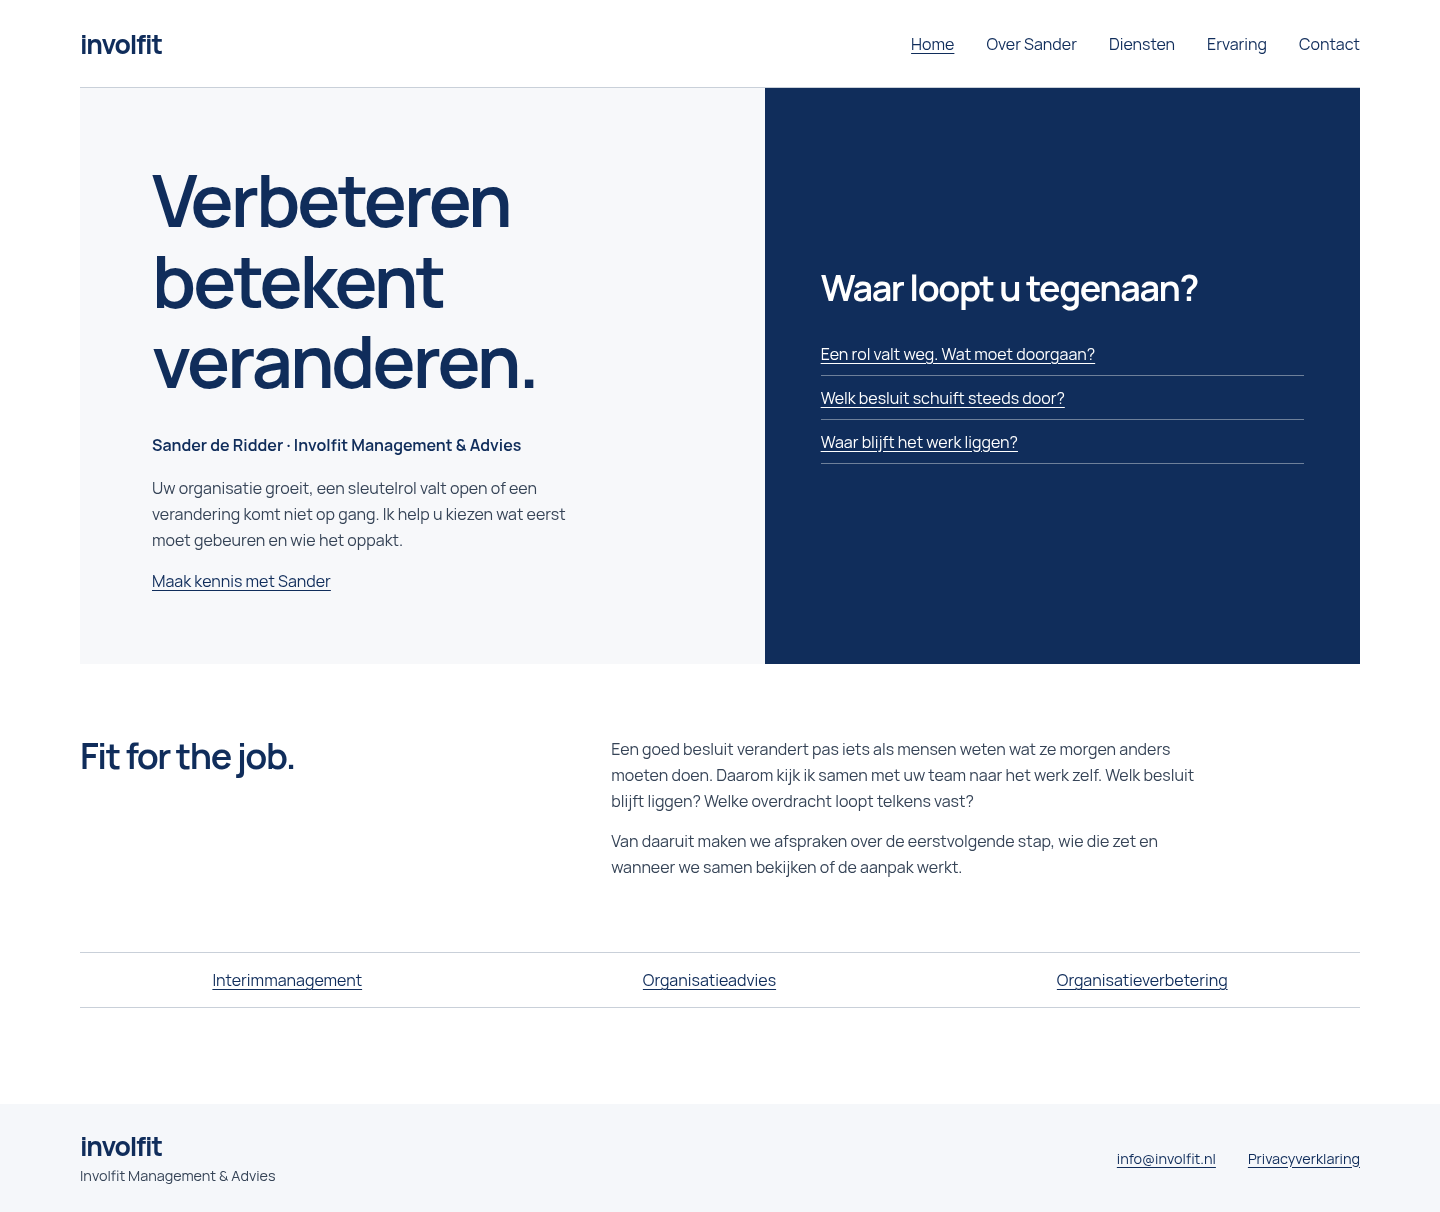
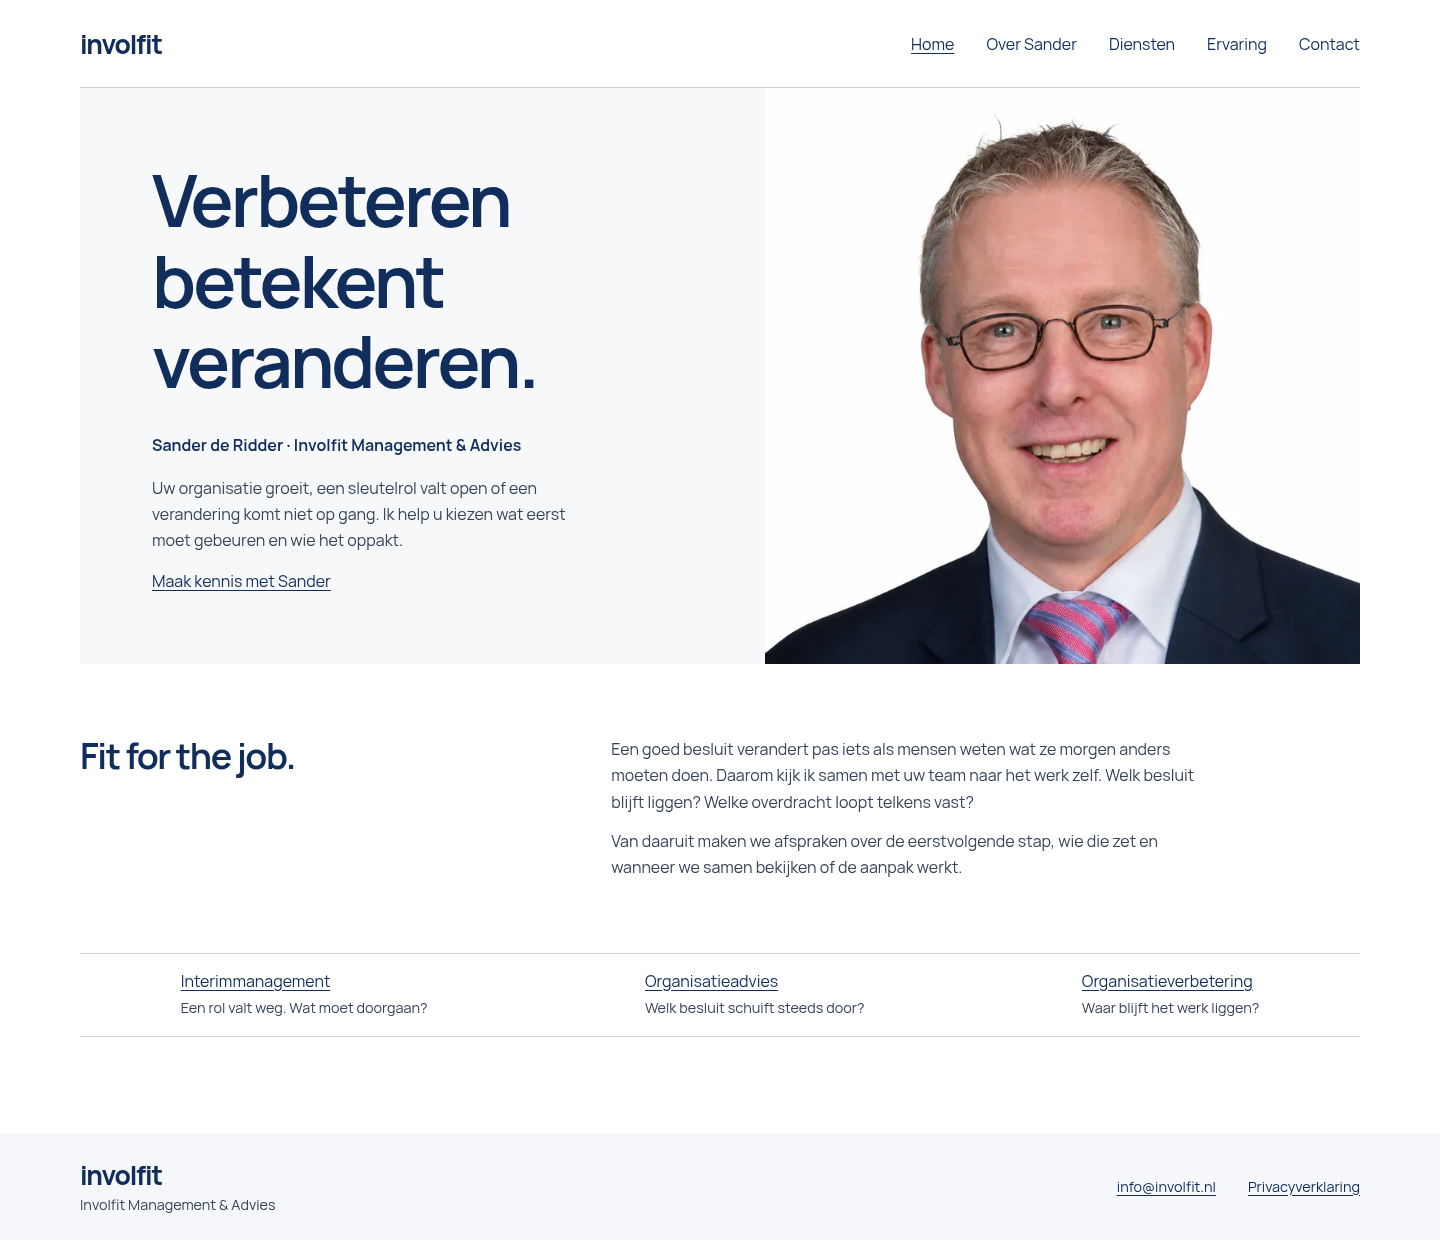
Place the reference-based portrait on the Involfit homepage

diff --git a/projects/involfit/public/site.css b/projects/involfit/public/site.css
@@ -49,10 +49,12 @@ h2 { font-size: clamp(1.4rem, 3vw, 2.25rem); font-weight: 650; }
   height: 100%;
   min-height: 18rem;
   object-fit: cover;
-  object-position: center 32%;
+  max-height: 36rem;
+  object-position: center top;
 }
 .introduction { display: grid; grid-template-columns: .8fr 1.2fr; gap: 2rem; padding-block: clamp(2rem, 5vw, 4.5rem); }
 .introduction p { margin: 0; max-width: 60ch; }
+.expertise-links p { margin: .25rem 0 0; font-size: .9rem; }
 .expertise-links { display: flex; justify-content: space-around; flex-wrap: wrap; gap: 1rem; border-block: 1px solid var(--line); padding-block: 1rem; }
 
 .reading-page, .legal, main > .page-intro { padding-top: clamp(2.5rem, 7vw, 6rem); }
@@ -104,7 +106,7 @@ summary { cursor: pointer; min-height: 44px; }
   .hero, .introduction { grid-template-columns: minmax(0, 1fr); }
   .hero { width: 100%; }
   .hero-copy { padding-inline: var(--gutter); }
-  .portrait { height: auto; min-height: 0; aspect-ratio: 4 / 3; }
+  .portrait { height: auto; min-height: 0; aspect-ratio: 1; }
   .introduction { gap: .5rem; }
   .expertise-links { flex-direction: column; gap: .65rem; }
   .site-footer .shell { align-items: flex-start; flex-direction: column; }

diff --git a/projects/involfit/review/README.md b/projects/involfit/review/README.md
@@ -41,3 +41,7 @@ Een tweede reviewer testte menu en uitklapblokken met toetsenbord en touch, cont
 De onafhankelijke reviewer controleerde op 20 november de vijf hoofdpagina’s op 1440 en 390 px. Home toont een vraagkiezer, Over Sander een profiel met werkwijze, Diensten een uitklaplijst met een adviespaneel, Ervaring werkgebieden met gelabelde voorbeelden en Contact een mailpaneel. Alle vijf routes laadden zonder horizontale overflow. De route van de vraagkiezer naar een geopend dienstblok en het bijbehorende voorbeeld werkte op desktop en mobiel. De nieuwe pagina-opnamen bovenaan tonen deze herbeoordeelde versie.
 
 De voorbeeldsituaties bevatten geen klantnamen, periodes of resultaten. Voor een chronologische tijdlijn blijven bevestigde loopbaangegevens nodig.
+
+## Portret op de homepage
+
+De huidige opnamen gebruiken een gereconstrueerde webversie van het door de eigenaar in de chat getoonde portret. Het originele bestand was niet beschikbaar in de werkmap. De browsercontrole is na plaatsing opnieuw gedraaid. Daarnaast is bevestigd dat de responsieve WebP op 320, 390 en 1440 px laadt en dat de drie dienstlinks zichtbaar blijven.
